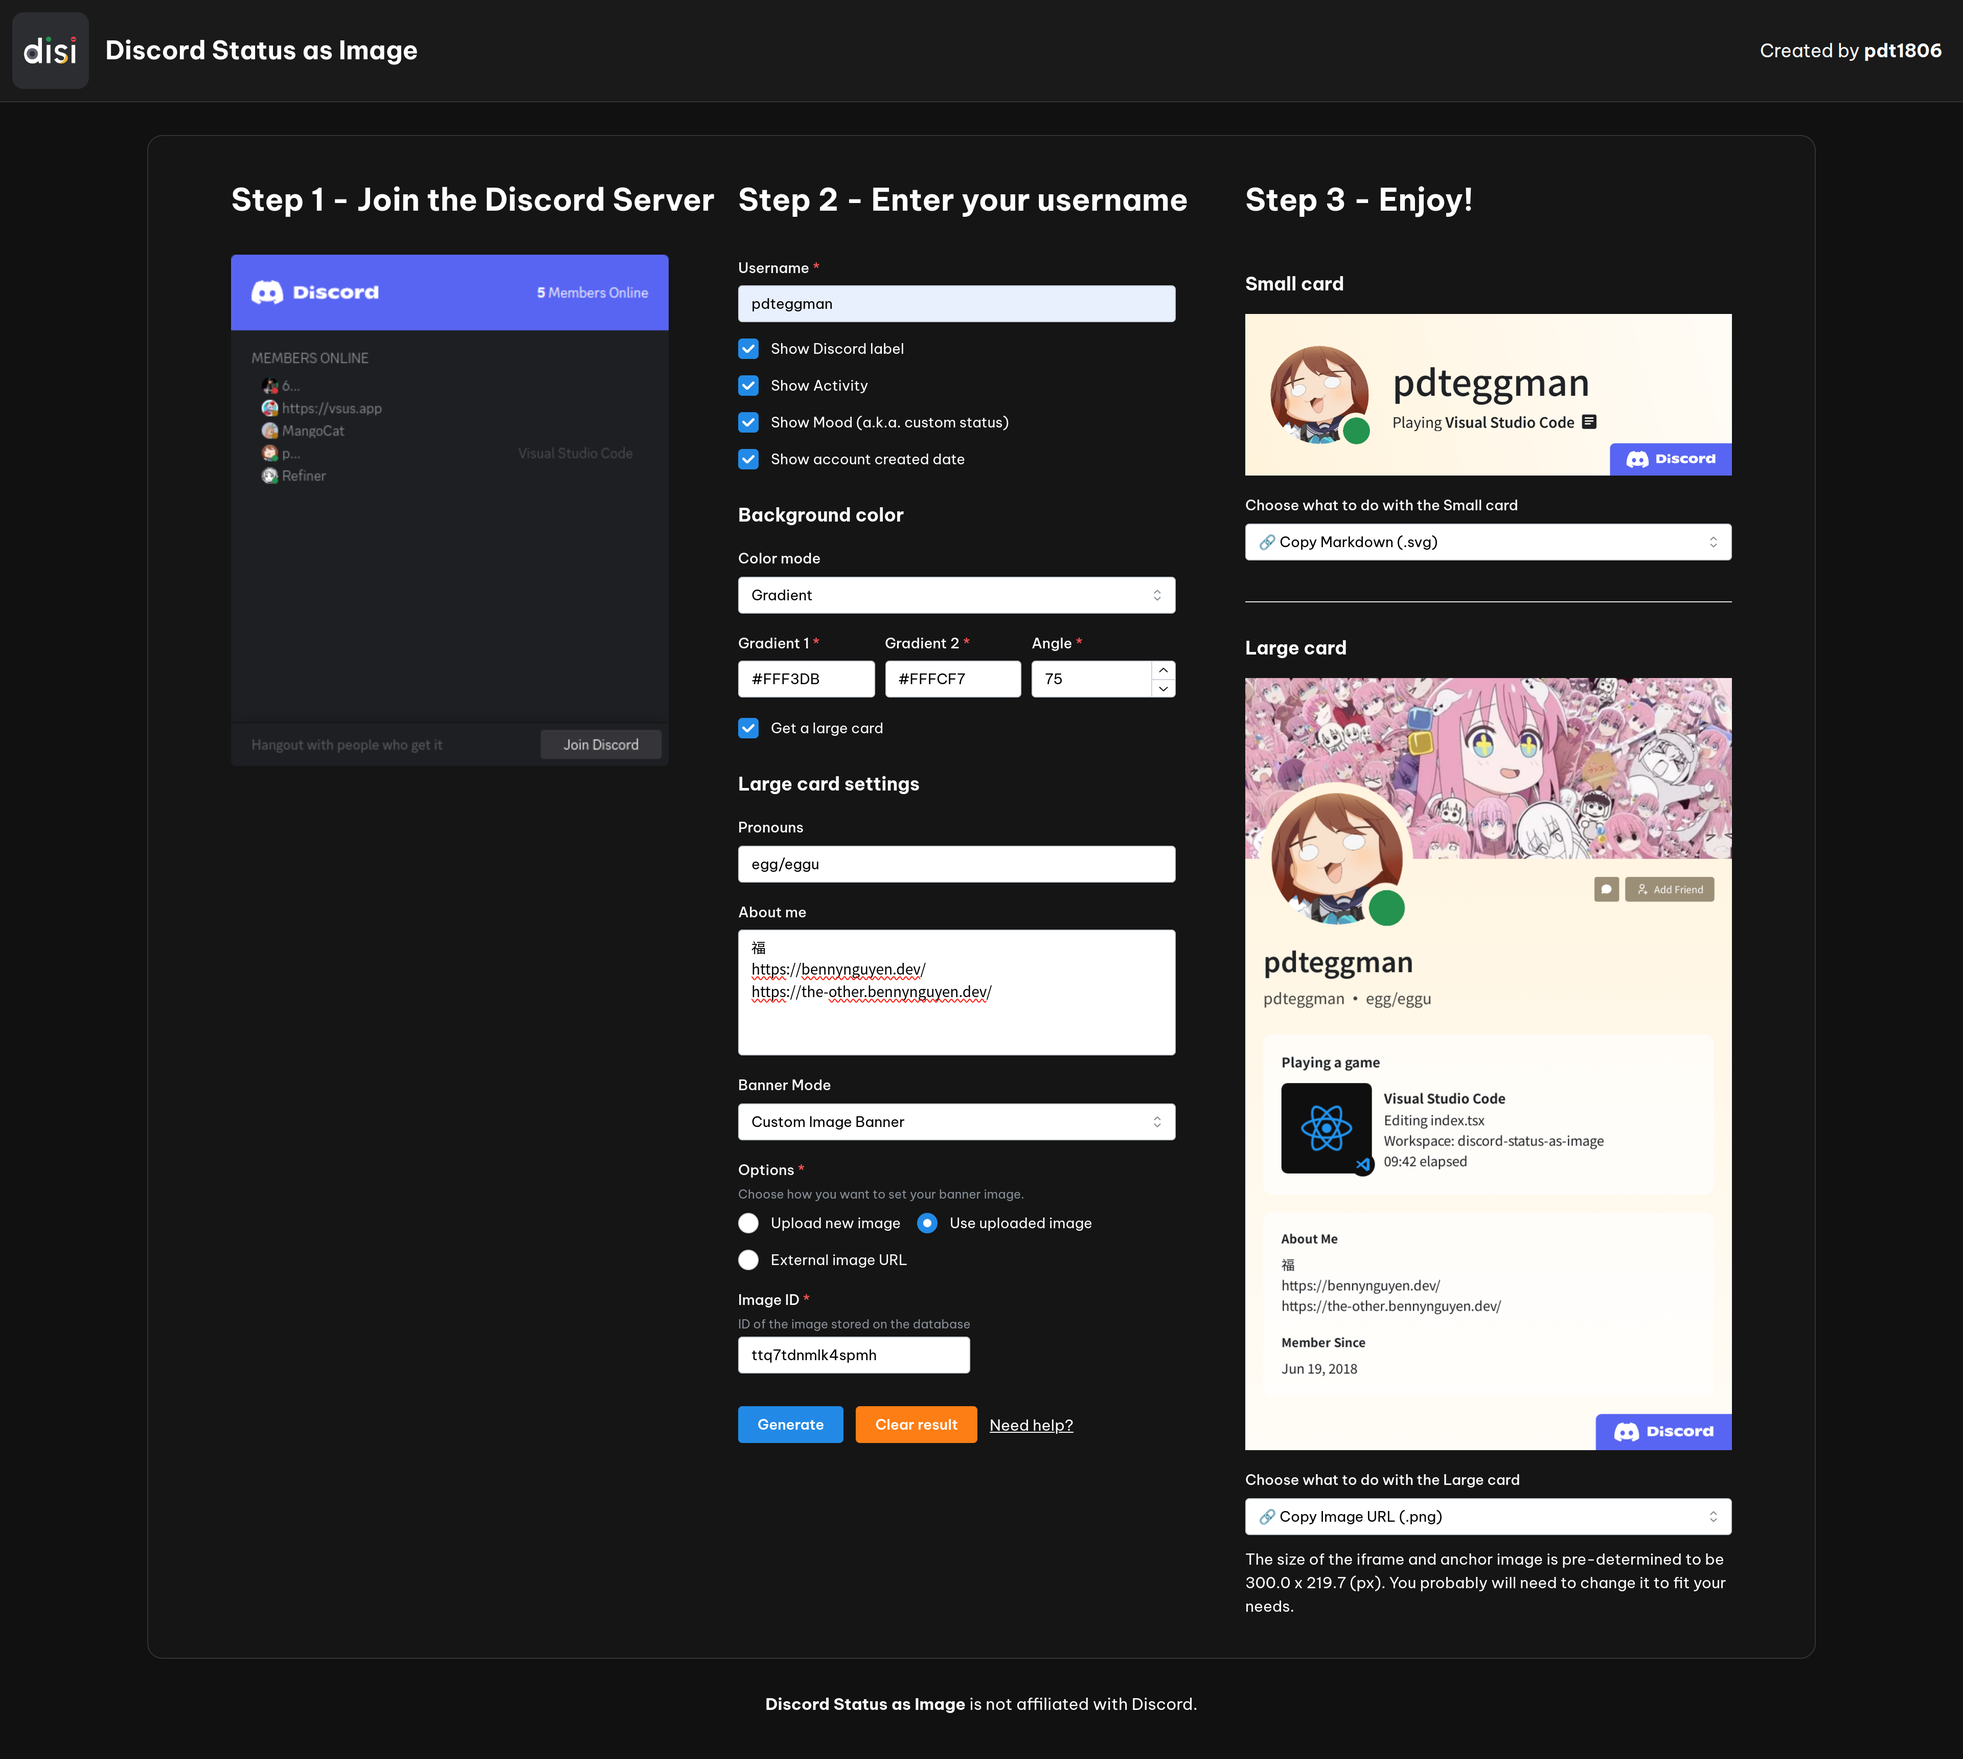
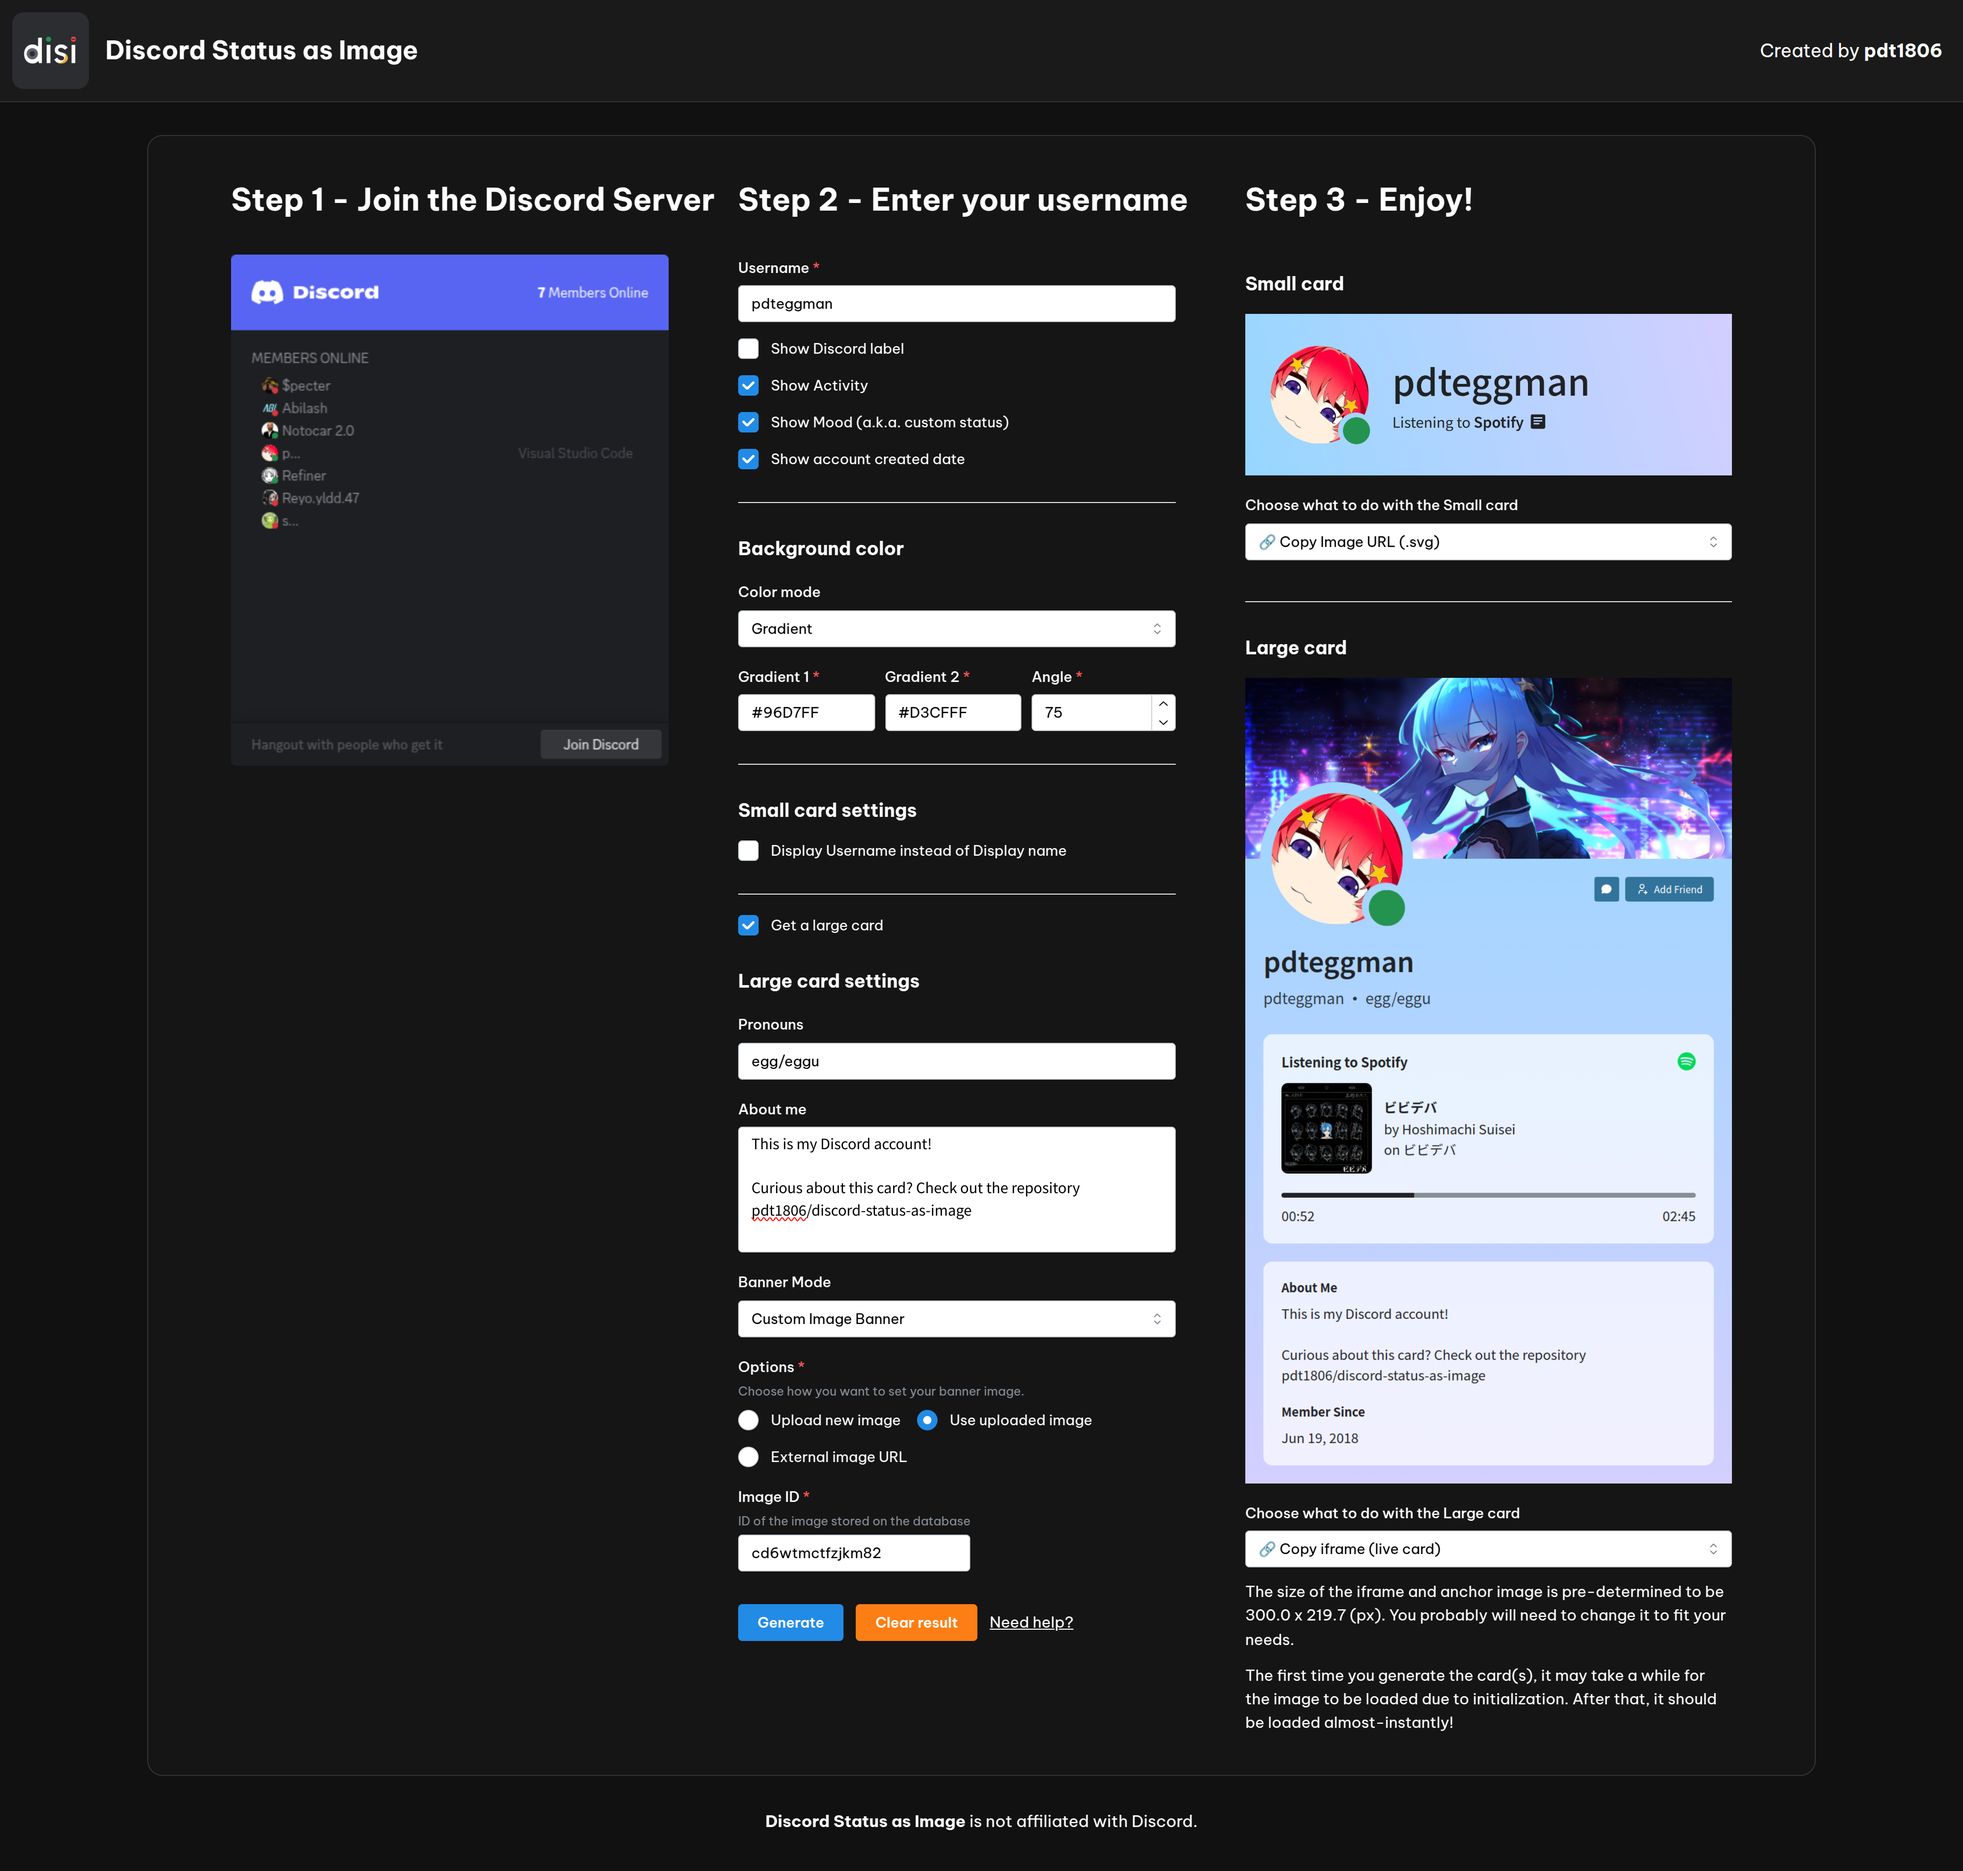
feat: :sparkles: display username instead of display name

diff --git a/src/components/LargeCard/ActivityBox/index.tsx b/src/components/LargeCard/ActivityBox/index.tsx
@@ -1,4 +1,4 @@
-import { Avatar, Box, Flex, Group, Image, Progress, Space, Text, Title } from '@mantine/core';
+import { Box, Flex, Group, Image, Progress, Space, Text, Title } from '@mantine/core';
 import { useEffect, useState } from 'react';
 import {
   formatActivityImageUrl,
@@ -70,7 +70,7 @@ export default function ActivityBox({
               />
             )}
           </Flex>
-          <Group gap="md" mt="lg">
+          <Group gap="lg" mt="lg">
             <Image
               src={
                 activity.platform
@@ -97,6 +97,8 @@ export default function ActivityBox({
                 <Text ff="Noto Sans TC" fz={22}>{`on ${activity.album.name}`}</Text>
               )}
             </Box>
+          </Group>
+          <Box mt="xl">
             <Progress
               mt="md"
               radius="xl"
@@ -105,7 +107,7 @@ export default function ActivityBox({
               bg="var(--mantine-color-dimmed)"
               w="100%"
             />
-            <Flex justify="space-between" align="center" w="100%">
+            <Flex justify="space-between" align="center" w="100%" mt="sm">
               <Text ff="Noto Sans TC" fz={22}>
                 {listeningProgress.elapsedTime}
               </Text>
@@ -113,7 +115,7 @@ export default function ActivityBox({
                 {listeningProgress.totalTime}
               </Text>
             </Flex>
-          </Group>
+          </Box>
         </>
       )}
       {activity.type === 'playing' && (
@@ -234,7 +236,7 @@ function OtherAssets({ activity }: { activity: ActivityType }) {
             transform: 'translateX(5px)',
           }}
         >
-          <Avatar
+          <Image
             ml="auto"
             src={
               small_image.includes('https')
@@ -242,8 +244,13 @@ function OtherAssets({ activity }: { activity: ActivityType }) {
                 : getImageURLfromCDN(activity.application_id, small_image)
             }
             alt="Small Image"
-            size={40}
+            style={{
+              width: '40px',
+              height: '40px',
+              borderRadius: '50%',
+            }}
             bg="black"
+            crossOrigin="anonymous"
           />
         </Flex>
       )}

diff --git a/src/components/MainContent/Column2/index.tsx b/src/components/MainContent/Column2/index.tsx
@@ -3,6 +3,7 @@ import {
   Button,
   Checkbox,
   ColorPicker,
+  Divider,
   FileInput,
   Group,
   HoverCard,
@@ -151,6 +152,7 @@ const MainContentColumn2 = ({
           form.setFieldValue('created', e.currentTarget.checked);
         }}
       />
+      <Divider mt="xl" />
       <Box mt="xl">
         <Title order={4}>Background color</Title>
         <NativeSelect
@@ -290,6 +292,19 @@ const MainContentColumn2 = ({
           )
         )}
       </Box>
+      <Divider mt="xl" />
+      <Box mt="xl">
+        <Title order={4}>Small card settings</Title>
+        <Checkbox
+          label="Display Username instead of Display name"
+          mt="md"
+          {...form.getInputProps('displayUsername')}
+          onChange={(e) => {
+            form.setFieldValue('displayUsername', e.currentTarget.checked);
+          }}
+        />
+      </Box>
+      <Divider mt="xl" />
       <Checkbox
         label="Get a large card"
         mt="lg"

diff --git a/server/utils.ts b/server/utils.ts
@@ -107,6 +107,7 @@ export const getSmallCardLink = async (
     mood,
     discordLabel,
     wantAccentColor,
+    displayUsername,
   }: { [key: string]: string }
 ) => {
   let link = bg1
@@ -121,14 +122,13 @@ export const getSmallCardLink = async (
   activity && (link += `activityData=${encodeURIComponent(JSON.stringify(data.activity))}&`);
   mood && (link += `moodData=${encodeURIComponent(JSON.stringify(data.mood))}&`);
   link += `urls=${encodeURIComponent(JSON.stringify(data.urls))}&`;
-  return `${link}displayName=${data.display_name}&avatar=${data.avatar.replace('size=512', 'size=256')}&status=${data.status}&id=${id}`;
+  return `${link}displayName=${displayUsername === 'true' ? data.username : data.display_name}&avatar=${data.avatar.replace('size=512', 'size=256')}&status=${data.status}&id=${id}`;
 };
 
 export const getLargeCardLink = async (
   root: string,
   id: string,
   data: RefinerResponse,
-
   {
     bg,
     bg1,

diff --git a/src/components/SmallCard/utils.ts b/src/components/SmallCard/utils.ts
@@ -6,6 +6,7 @@ import { setStatusImg } from '../LargeCard/utils';
 export function updateStatus({
   id,
   params,
+  displayUsername,
   setDisplayName,
   setAvatar,
   setStatus,
@@ -17,6 +18,7 @@ export function updateStatus({
 }: {
   id: string | null;
   params: URLSearchParams;
+  displayUsername: boolean;
   setDisplayName: (name: string) => void;
   setAvatar: (avatar: string) => void;
   setStatus: (status: string) => void;
@@ -34,7 +36,7 @@ export function updateStatus({
   })
     .then((res) => res.json())
     .then((data) => {
-      setDisplayName(data.display_name);
+      setDisplayName(displayUsername ? data.username : data.display_name);
       setAvatar(data.avatar);
       setStatus(data.status);
       setStatusImage(setStatusImg(data.status));

diff --git a/src/components/SmallCard/index.tsx b/src/components/SmallCard/index.tsx
@@ -25,7 +25,8 @@ const SmallCard = () => {
   );
 
   const id = params.get('id');
-  const discordLabel = params.get('discordLabel');
+  const discordLabel = params.get('discordLabel') === 'true';
+  const displayUsername = params.get('displayUsername') === 'true';
 
   const [backgroundColor, setBackgroundColor] = useState(
     params.get('bg')
@@ -41,6 +42,7 @@ const SmallCard = () => {
   const updateStatusArgs = {
     id,
     params,
+    displayUsername,
     setDisplayName,
     setAvatar,
     setStatus,

diff --git a/src/components/MainContent/Column2/utils.ts b/src/components/MainContent/Column2/utils.ts
@@ -82,8 +82,9 @@ export const generatingCards = async (
   const smallTail =
     newTail +
     (colorMode === 'Gradient' ? `&angle=${form.values.backgroundGradientAngle}` : '') +
+    (colorMode === 'Discord Accent Color' ? '&wantAccentColor=true' : '') +
     (form.values.discordLabel ? '&discordLabel=true' : '') +
-    (colorMode === 'Discord Accent Color' ? '&wantAccentColor=true' : '');
+    (form.values.displayUsername ? '&displayUsername=true' : '');
 
   const largeTail =
     newTail +

diff --git a/src/components/MainContent/index.tsx b/src/components/MainContent/index.tsx
@@ -29,6 +29,7 @@ const MainContent = () => {
       backgroundGradient1: '',
       backgroundGradient2: '',
       backgroundGradientAngle: 0,
+      displayUsername: false,
       activity: false,
       mood: false,
       created: false,

diff --git a/src/utils/types.ts b/src/utils/types.ts
@@ -5,6 +5,7 @@ export type DISIForm = {
   backgroundGradient1: string;
   backgroundGradient2: string;
   backgroundGradientAngle: number;
+  displayUsername: boolean;
   activity: boolean;
   mood: boolean;
   created: boolean;
